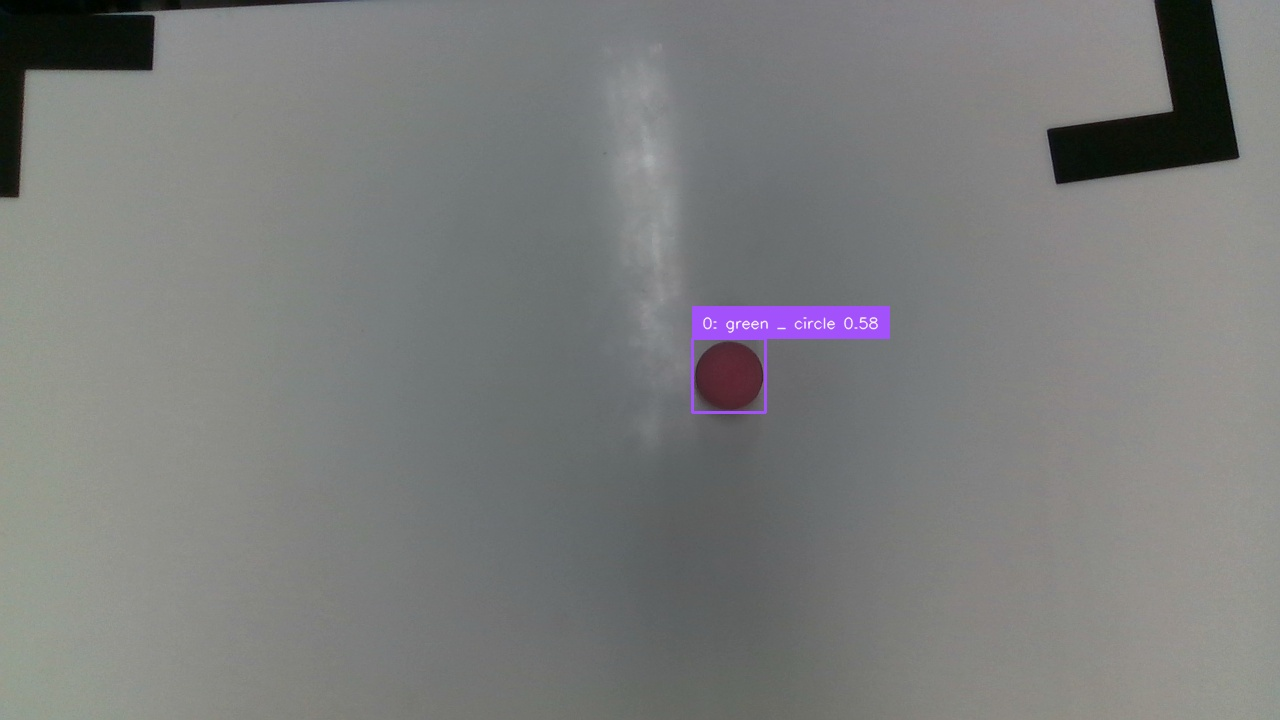
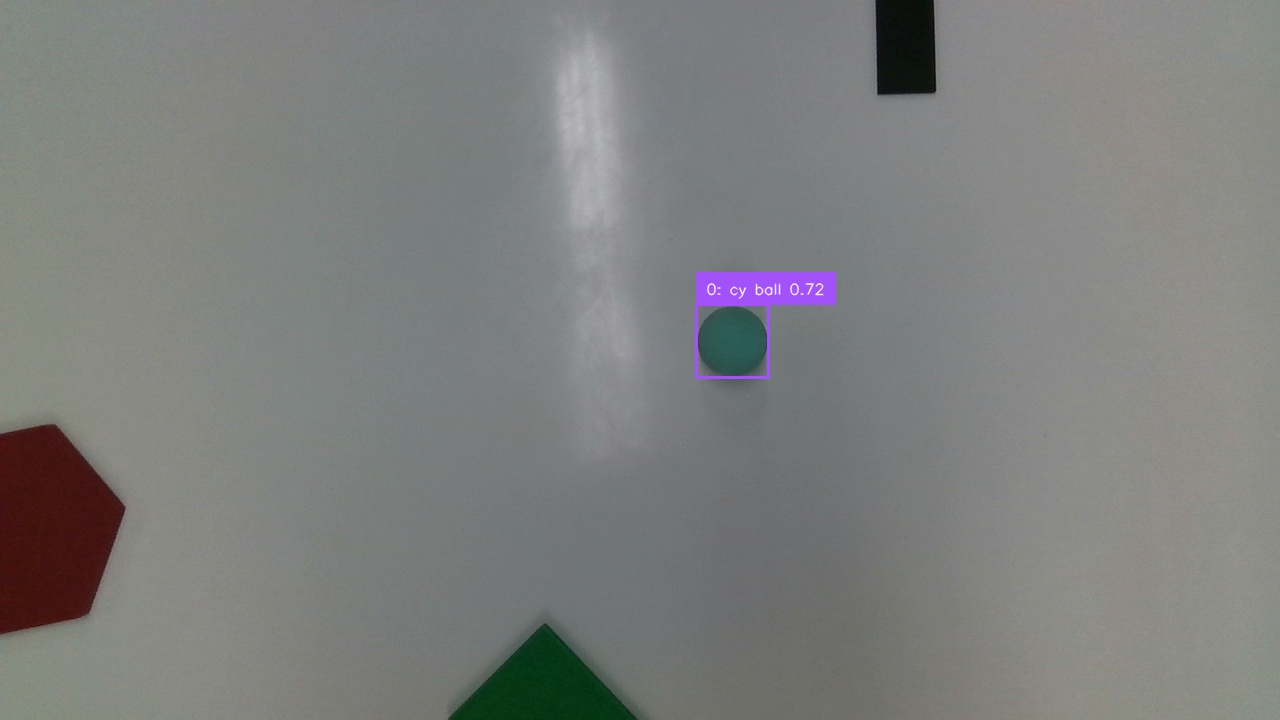
issue with cartesian planner in pick_and_place_local_perception

diff --git a/central_client/scripts/client.py b/central_client/scripts/client.py
@@ -22,7 +22,7 @@ from openai import OpenAI
 
 # Prompt used for the perception server (shapes to detect)
 # TEXT_PROMPT = "blue_circle,red_hex,green_circle,green_rectangle,pink_sphere,yellow_sphere,cyan_sphere"
-TEXT_PROMPT = "blue_circle,red_hex,green_circle,green_rectangle,balls"
+TEXT_PROMPT = "blue_circle,red_hex,green_circle,green_rectangle,yellow_ball,pink_ball,cyan_ball"
 # TEXT_PROMPT = "objects"
 
 

diff --git a/ai_soft_touch_motion_planning/launch/launch_servers.launch.py b/ai_soft_touch_motion_planning/launch/launch_servers.launch.py
@@ -40,7 +40,7 @@ def generate_launch_description():
             "orientation_z":0.000,
             "pick_offset_x":0.0,
             "pick_offset_y":0.0,
-            "pick_offset_z":0.0,
+            "pick_offset_z":-0.02,
             "look_offset_x":0.0,
             "look_offset_y":0.1,
             "look_offset_z":0.32,
